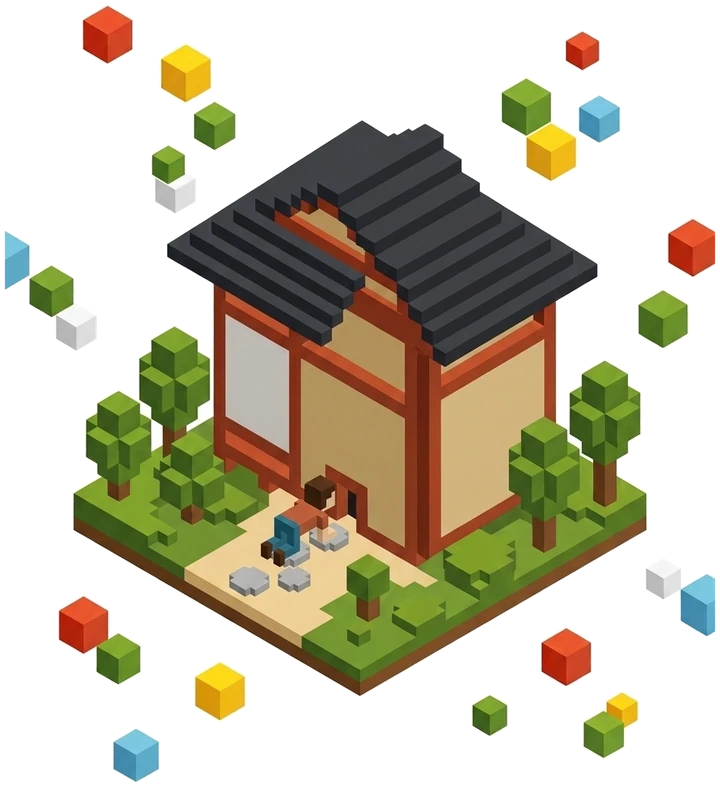
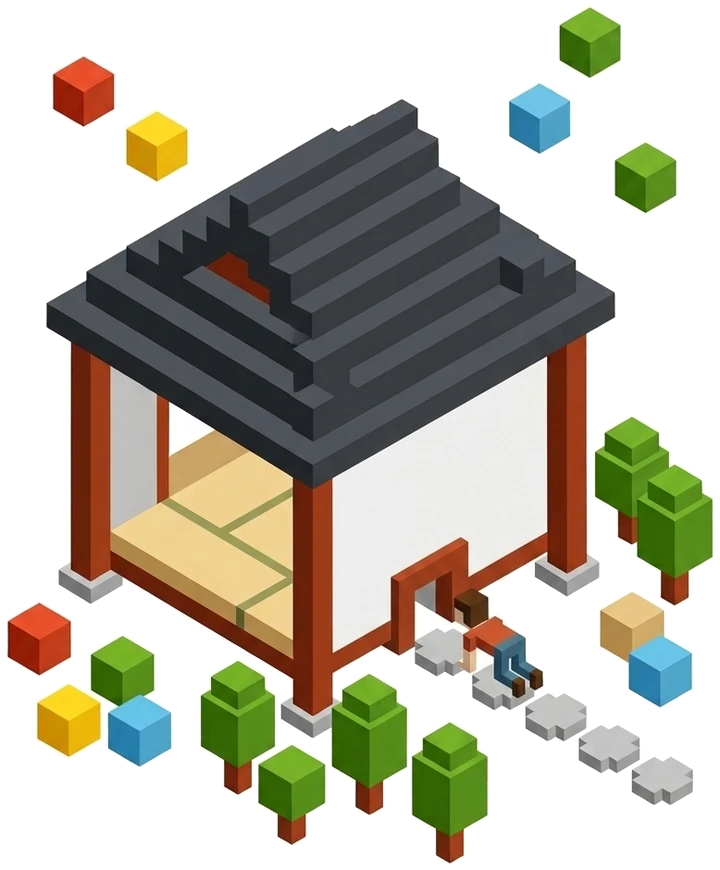
カードの面を床にして、その上にレゴだけを立てる
絵の透けた部分から下の作図模型が覗いていたのがグレーの正体。絵を敷くときは
模型を下に置かない。あわせて、自前の土台を持たせず紙の面に直接立てる絵に起こし直した。

diff --git a/src/webgl/shaders.ts b/src/webgl/shaders.ts
@@ -560,7 +560,9 @@ export const plateFragmentShader = /* glsl */ `
     // 絵を版にする CASE は、作図のかわりに二枚を溶かし合わせて敷く。
     // 絵がまだ来ていないあいだは、作図プログラムの模型をそのまま見せる。
     if (id < 0.5) {
-      col = MC;
+      // 絵が来ていないあいだだけ、作図プログラムの模型を見せる。
+      // 絵を敷くときに MC を下に残すと、絵の透けた部分から模型が覗く。
+      if (uHasArt < 0.5) col = MC;
       if (uHasArt > 0.5) {
         vec2 rc = vec2(0.0, -0.012);
         vec2 rh = vec2(hx - 0.010, 0.382);
@@ -571,16 +573,7 @@ export const plateFragmentShader = /* glsl */ `
         if (uArtAspect > ra) uv.y = 0.5 + (uv.y - 0.5) * (uArtAspect / ra);
         else                 uv.x = 0.5 + (uv.x - 0.5) * (ra / uArtAspect);
 
-        // 落ち影。ボクセルの絵は影を持たないので、紙から浮く程度にごく薄く。
-        vec2 so = vec2(-0.020, 0.024);
-        float sh = 0.0;
-        sh += artA(uv + so);
-        sh += artA(uv + so + vec2(0.012, 0.0));
-        sh += artA(uv + so - vec2(0.012, 0.0));
-        sh += artA(uv + so + vec2(0.0, 0.012));
-        sh += artA(uv + so - vec2(0.0, 0.012));
-        col = mix(col, mix(uPaper, uInk, 0.58), clamp(sh / 5.0, 0.0, 1.0) * 0.09);
-
+        // 影は落とさない。紙の面をそのまま床として使い、その上に立てる。
         if (uv.x > 0.0 && uv.x < 1.0 && uv.y > 0.0 && uv.y < 1.0) {
           vec4 art = mix(texture2D(uArtA, uv), texture2D(uArtB, uv), te);
           col = mix(col, art.rgb, clamp(art.a, 0.0, 1.0));

diff --git a/src/webgl/plateArtVersion.ts b/src/webgl/plateArtVersion.ts
@@ -1,5 +1,5 @@
 // tools/shrink-plate.py が書き出す。直接いじらない。
 // 絵の中身から作った版番号。URLに付けて、古い絵が居座るのを防ぐ。
 export const PLATE_ART_VERSION: Record<string, string> = {
-  "01": "505427a538"
+  "01": "ea18049027"
 } as const;
